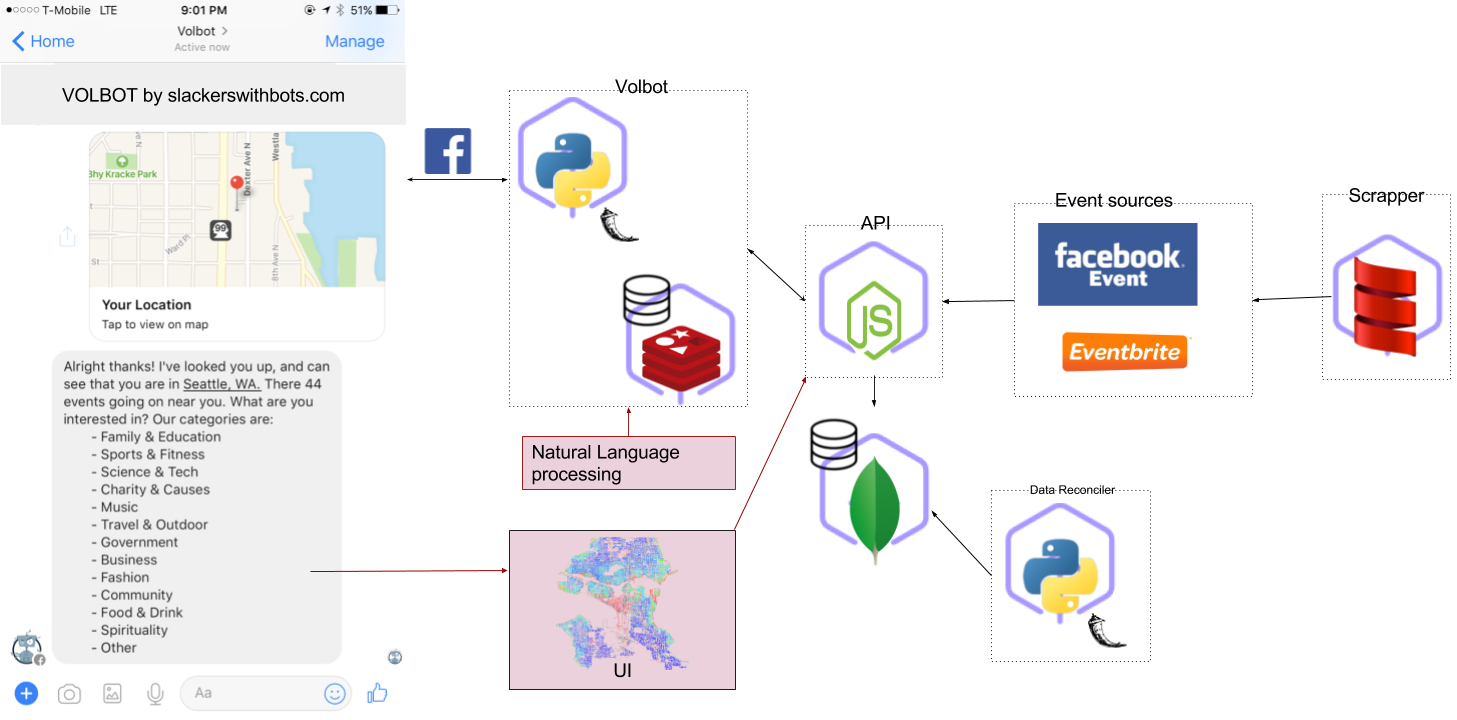
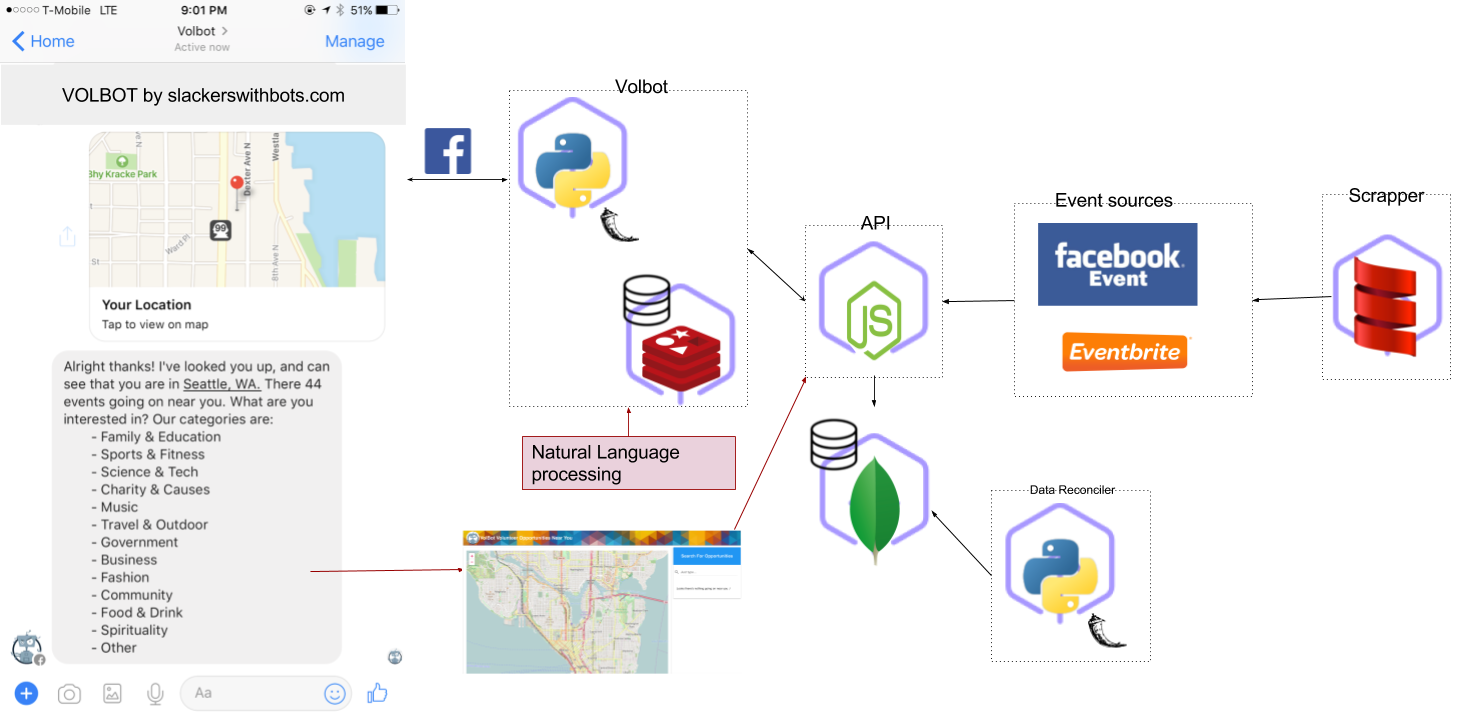
Updated Architecture diagram Added website link to resources Removed extraneous pages

Changed region(s): [[0.2471, 0.7333, 0.5251, 0.9778]]

diff --git a/index.html b/index.html
@@ -86,14 +86,15 @@
                         <li class="fragment"><a href="http://volbot-engine.slackerswithbots.com">volbot-engine.slackerswithbots.com</a></li>
                         <li class="fragment"><a href="http://volbot-messenger.slackerswithbots.com">volbot-messenger.slackerswithbots.com</a></li>
                         <li class="fragment"><a href="http://volbot-presentation.slackerswithbots.com">volbot-presentation.slackerswithbots.com</a></li>
+                        <li class="fragment"><a href="https://volbot-website.herokuapp.com/">volbot-website.herokuapp.com</a></li>
                     </ul>
                     </p>
                 </section>
 				<section data-background="white"><p>Architecture</p>
                 <img src="./images/Architecture.png" style='border:0px;width:200%;'>
                 </section>
-				<section data-background="#67AEBB" style='color:white'>Slide 2</section>
-				<section data-background="#C90044" style='color:white'>Slide 2</section>
+				<!-- <section data-background="#67AEBB" style='color:white'>Slide 2</section> -->
+				<!-- <section data-background="#C90044" style='color:white'>Slide 2</section> -->
                 
 			</div>
 		</div>
